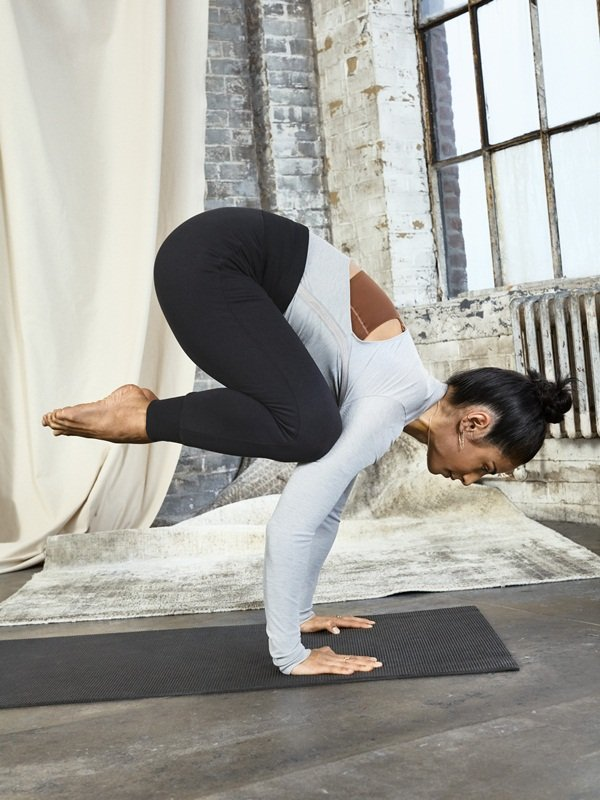
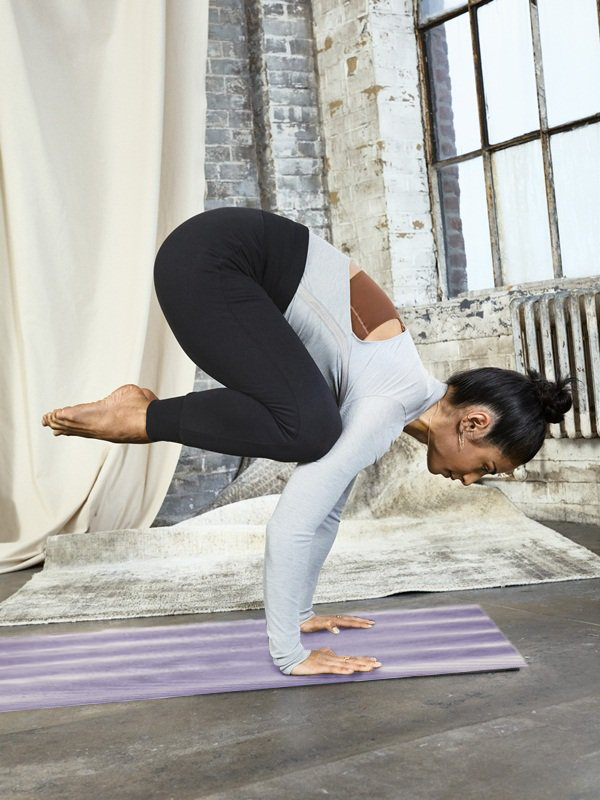
軟軟 首頁

Changed region(s): [[0.0, 0.75, 0.87, 0.9062]]

diff --git a/lib/homepage.js b/lib/homepage.js
@@ -1,3 +1,101 @@
+// loading
+$('.index_computer').css('display','none');
+$('#loading_screen').css('display','block');
+// document.getElementById('loading_screen').style.display="none";
+//             document.getElementById('index_computer').style.display="block";
+$(window).ready(
+    function(){
+ setTimeout(() => {
+    $('#loading_screen').removeClass('d-flex');
+    $('#loading_screen').css('display','none');
+    $('.index_computer').css('display','');
+ }, 9000);
+
+})
+
+        $(document).ready(function(){
+            // loading girls
+            setTimeout(fadeImages,1);
+                setInterval(fadeImages, 1500);
+                
+                function fadeImages(){
+                  setTimeout(fadeIn, 500);
+                  function fadeIn() {
+                    $(".loader .loading-graphic img").each(function (i) {
+                      $(this)
+                        .delay(i++ * 100)
+                        .fadeTo(500, 1); //設秒跟透明度
+                    });
+                    setTimeout(fadeOut, 1000);
+                  }
+            
+                  function fadeOut() {
+                    $(".loader .loading-graphic img").each(function (i) {
+                      $(this)
+                        .delay(i++ * 100)
+                        .fadeTo(500, 0);
+                    });
+                  }    
+                }
+            
+            
+            
+            // number counter
+              $.fn.jQuerySimpleCounter = function( options ) {
+                    var settings = $.extend({
+                        start: 0,
+                        end: 100,
+                        easing: 'swing',
+                        duration: 400,
+                        complete: ''
+                    }, options );
+            
+                    var thisElement = $(this);
+            
+                    $({count: settings.start}).animate({count: settings.end}, {
+                        duration: settings.duration,
+                        easing: settings.easing,
+                        step: function() {
+                            var mathCount = Math.ceil(this.count);
+                            thisElement.text(mathCount);
+                        },
+                        complete: settings.complete
+                });
+               
+              };
+            
+            // loading counter number and girls fadeout
+                $('.number').jQuerySimpleCounter({end: 36,duration: 6000});
+            
+                setTimeout(function(){
+                  $('.loading-graphic').fadeOut(8000);
+                });
+            
+                setTimeout(function(){
+                  $('.number').fadeOut(8000);
+                });
+            
+                
+            // loading logo fadein
+                $('.logo_green').hide();
+            
+                setTimeout(function(){
+                
+                  $('.logo_green').delay(6500).fadeIn(3000);
+                  setTimeout(() => {
+                    $('.loading-graphic').html('');
+                    $('#number36').html('');
+                  }, 6000);
+                  
+                });
+            
+            
+            })
+  
+
+
+
+
 // index script
 // computer
 // 首頁 banner find your soulmat btn

diff --git a/CSS/homepage.css b/CSS/homepage.css
@@ -25,6 +25,64 @@ body{
     margin: 0;
 }
 
+
+/*loading*/
+body{
+    position: relative;
+}
+#loading_screen{
+    display: none;
+    position: absolute;
+}
+
+.loading-screen {
+    /* background-color: #d9d9d9; */
+    background-image: url('../img/index/index_back_white.jpg');
+    /* display: block; */
+    height: 100vh;
+    margin-top: 0 !important;
+    /* position: fixed!important; */
+    width: 100%;
+    z-index: 20000000;
+    padding-top: 300px;
+    position: relative;
+    top:0;
+  }
+  
+  .loading-screen .loader {
+    margin: 120px auto 0 auto;
+    padding:  0;
+    text-align: center;
+    width: 600px;
+    position: absolute;
+  }
+  
+  .loading-screen .loader .loading-graphic img {
+    display: inline-block;
+    margin: 50px;
+    width: 100px;
+    opacity: 0;
+  }
+  
+  #number36{
+    padding-top: 70vh;
+  }
+  
+  .logo_green{
+    width: 250px;
+    height: 250px;
+  }
+  
+  /*loading*/
+          #number36 {
+          font-family: 'Josefin Sans', sans-serif;
+          font-size: 60px;
+          padding: 0;
+          font-weight: 300;
+          color: #333333;
+          }
+
+
 /* screen 1920px */
 @media(max-width: 1920px){
     .index_mobile{

diff --git a/homepage.php b/homepage.php
@@ -15,14 +15,34 @@
     <link rel="stylesheet" href="<?= WEB_ROOT ?>CSS/quick_view.css">
     <link rel="stylesheet" href="<?= WEB_ROOT ?>CSS/nav.css">
     <link rel="stylesheet" href="<?= WEB_ROOT ?>CSS/footer.css" />
+    <link rel="icon" type="image/png" sizes="16x16" href="/favicon-16x16.png">
+
+    <link rel="shortcut icon" href="./SVG/icon_green.svg" type="image/x-icon" />
 <!-- css連結 -->
 
 <?php include __DIR__ . '/parts/nav.php'; ?>
 
+<div id="loading_screen" class="loading-screen text-center d-flex justify-content-center">
+      <div>
+        <div id="number36" class="number">36</div>
+      </div>
+     
+    <div class="loader">
+        <div class="loading-graphic d-flex flex-row">
+            <img src="./SVG/SVG/yoga_pose01.svg" alt="logo"/>
+            <img src="./SVG/SVG/yoga_pose02.svg" alt="logo"/>
+            <img src="./SVG/SVG/yoga_pose03.svg" alt="logo"/>
+        </div>
+    </div>
+
+    <img class='logo_green' src="./SVG/icon_green.svg" alt="">
+    
+</div>
+
 <!-- 貼上html -->
 <!-- index computer -->
 
-<div class="index_computer">
+<div id='index_computer' class="index_computer">
         <!-- Hero -->
         <header id='index_home' class="index_header"> 
             
@@ -214,7 +234,7 @@
                                 <div class="prods_box ">
                                     <a href='<?= WEB_ROOT ?>product_mat.php?sid=6'>
                                         <div class="prods_picwrap ppwrap_02">
-                                            <img class="index_prodspic_h2" src="./img/index/index_04_h_black.jpg" alt="">
+                                            <img class="index_prodspic_h2" src="./img/index/index_04_h_purple.jpg" alt="">
                                             <img class="index_prodspic02" src="./img/index/index_06.jpg" alt="">
                                         </div>
                                     </a> 
